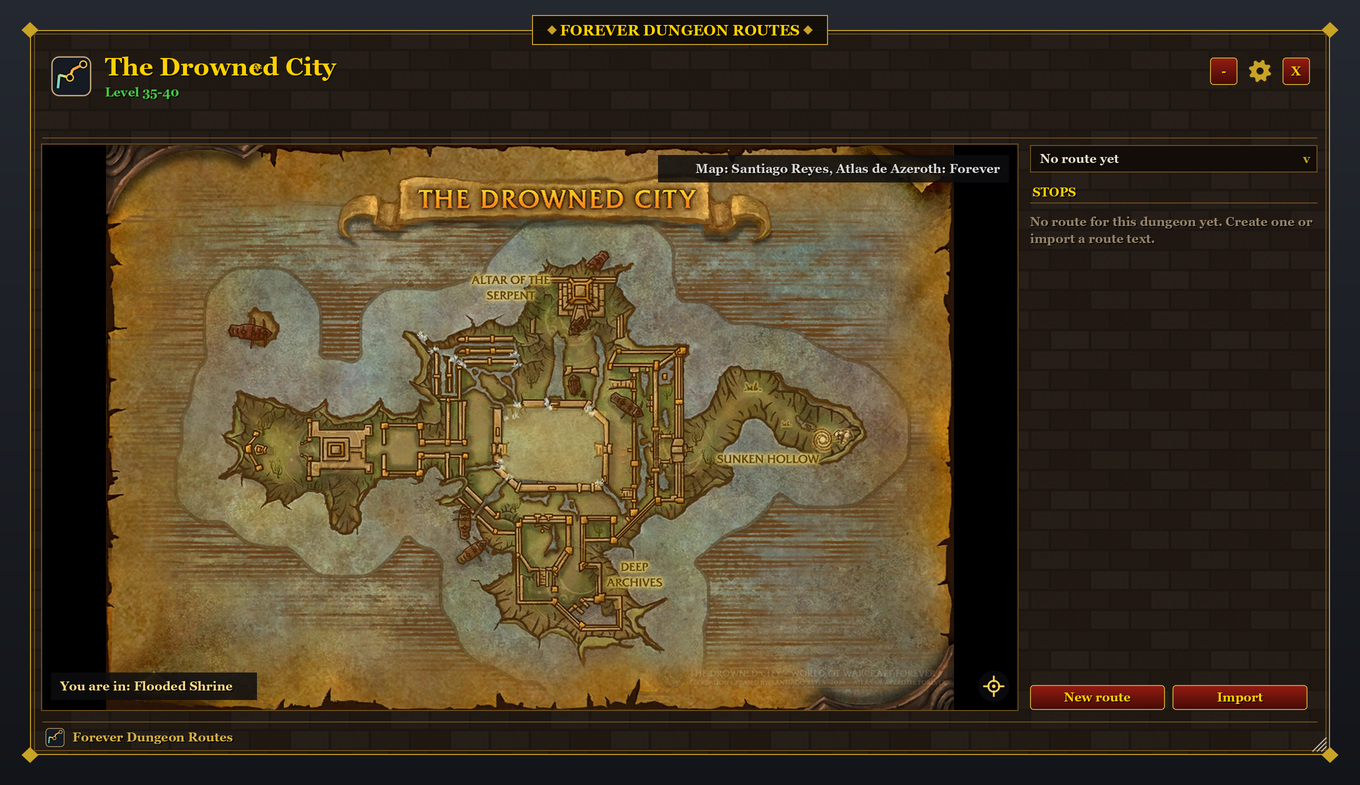
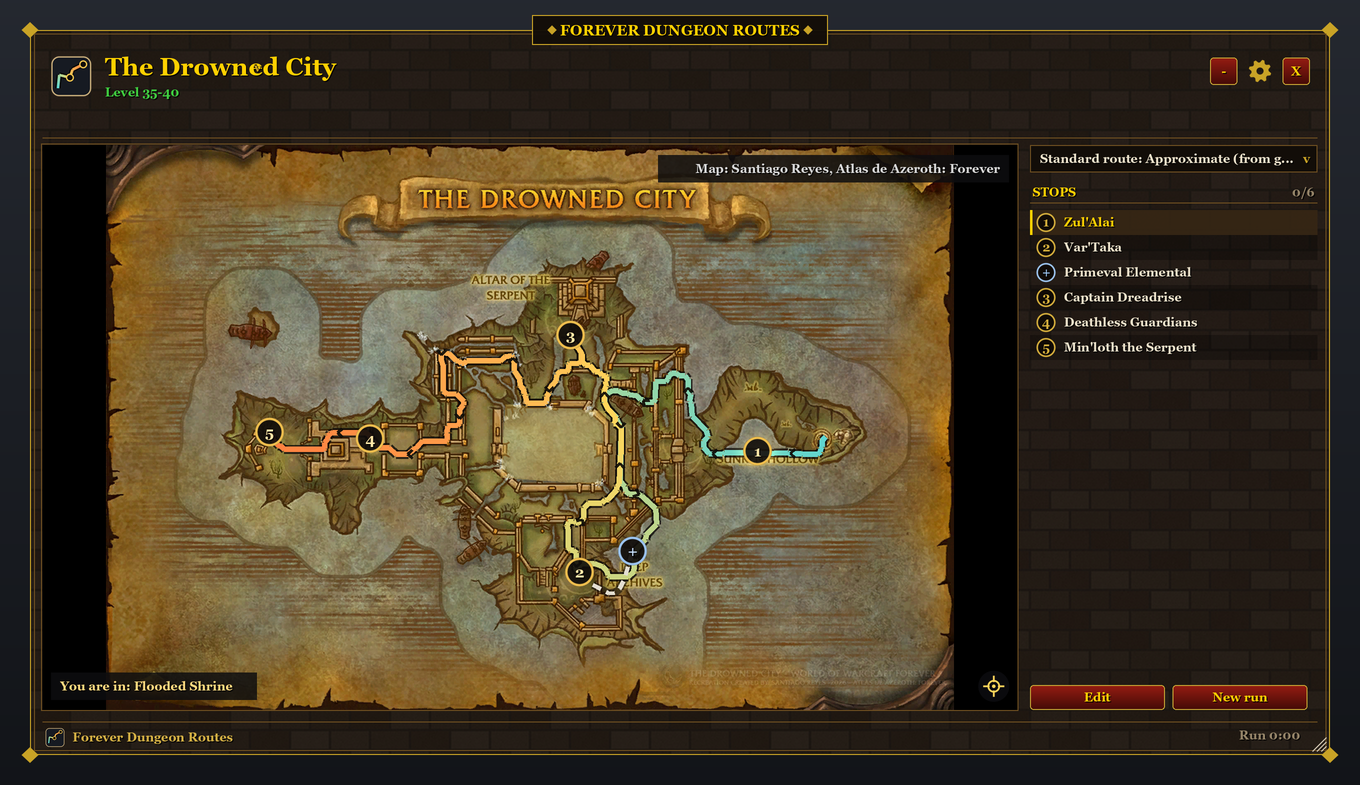
1.0.7: rough route for The Drowned City, Fel Ancient at his sound source

diff --git a/README.md b/README.md
@@ -2,8 +2,8 @@
 
 A dungeon map with routes for **World of Warcraft: Forever**, for all 34 dungeons and the 7 raids:
 ready routes for the 25 classic dungeons and the 7 raids, maps by Santiago Reyes and rough routes for the first 4
-new Forever dungeons, maps by Santiago Reyes or drawn from the game's files for the 5 newer ones,
-boss order and notes, bosses that tick themselves off, an editor for your own routes in the spirit of
+new Forever dungeons, maps by Santiago Reyes or drawn from the game's files for the 5 newer ones (The
+Drowned City with a rough route too), boss order and notes, bosses that tick themselves off, an editor for your own routes in the spirit of
 Mythic Dungeon Tools, and a route list where players put up their routes for everyone.
 
 ![Inside the Deadmines: the first boss ticked off by the kill, the room you are in lights up, the run time counts](docs/screenshots/dungeon.png)
@@ -19,8 +19,8 @@ Mythic Dungeon Tools, and a route list where players put up their routes for eve
 | ![Ruins of Lordaeron on the map by Santiago Reyes (Atlas de Azeroth: Forever) with the rough route Approximate (from guides), King's Alley lit up](docs/screenshots/new-lordaeron.png) | ![The Hall of Thanes on the map by Santiago Reyes (Atlas de Azeroth: Forever) with the rough route, Infurnus on the side path](docs/screenshots/new-thanes.png) |
 | **City of Dalaran: the rough route over two levels, three bosses down** | **The small map when you enter a dungeon** |
 | ![City of Dalaran on the map by Santiago Reyes with the rough route, Atrexis, Arcane Anomaly and Mana Devourer ticked off, Arcanic Enigma as an optional stop](docs/screenshots/new-dalaran.png) | ![The small map in the Deadmines, slightly transparent at the edge of the screen, with + and X](docs/screenshots/small-map.png) |
-| **New in 1.0.4: The Drowned City, map by Santiago Reyes** | **Alcaz Prison, map by Santiago Reyes** |
-| ![The Drowned City on the map by Santiago Reyes (Atlas de Azeroth: Forever), the Flooded Shrine lit up where the game reports it, no route yet](docs/screenshots/new-drownedcity.png) | ![Alcaz Prison on the map by Santiago Reyes (Atlas de Azeroth: Forever), no route yet](docs/screenshots/new-alcazprison.png) |
+| **The Drowned City: map by Santiago Reyes, rough route since 1.0.7** | **Alcaz Prison, map by Santiago Reyes** |
+| ![The Drowned City on the map by Santiago Reyes (Atlas de Azeroth: Forever) with the rough route Approximate (from guides), the optional Primeval Elemental as a plus](docs/screenshots/new-drownedcity.png) | ![Alcaz Prison on the map by Santiago Reyes (Atlas de Azeroth: Forever), no route yet](docs/screenshots/new-alcazprison.png) |
 | **Or from the game's own minimap pictures (gear button)** | **The Hall of Thanes from the minimap pictures** |
 | ![Ruins of Lordaeron from the game's minimap pictures, King's Alley lit up](docs/screenshots/new-lordaeron-minimap.png) | ![The Hall of Thanes from the game's minimap pictures, Anvilmar's Rest lit up](docs/screenshots/new-thanes-minimap.png) |
 | **The other window styles (gear button): Dark** | **Parchment** |
@@ -56,8 +56,9 @@ replace them.
   of Santiago Reyes (Alcaz Prison with both of its levels), for Blackmaw Hold the addon draws the map
   from the game's files. Their bosses tick themselves off and their rooms light up where the game names
   them.
-  No standard routes yet; draw your own or use "Route from the last run", and please tell us where
-  the bosses stand (see "Help wanted" below).
+  The Drowned City has a rough route since 1.0.7 (the area of each boss from a video guide); for the
+  other four no standard routes yet: draw your own or use "Route from the last run", and please tell
+  us where the bosses stand (see "Help wanted" below).
 - All seven raids (Molten Core to Naxxramas): the game's map art, rooms and areas, bosses that tick
   themselves off, and standard routes from the entrance from boss to boss over the walkable floors;
   Zul'Gurub and Ahn'Qiraj with two each ("Full clear" and "Efficient"). In the dungeon list they sit
@@ -193,12 +194,12 @@ Razorfen Downs, Uldaman, Zul'Farrak, Maraudon, Sunken Temple, Blackrock Depths,
 Lower and Upper Blackrock Spire, Dire Maul (East, West, North), Scholomance, Stratholme.
 
 With a rough route from guide texts ("Approximate (from guides)", places approximate): The Hall of
-Thanes, Ruins of Lordaeron, Excavation Site: Wetlands, City of Dalaran.
+Thanes, Ruins of Lordaeron, Excavation Site: Wetlands, City of Dalaran, The Drowned City.
 
-Without a standard route yet (map, rooms and bosses are there): The Drowned City, Krol'dok Stronghold,
-Alcaz Prison, Blackmaw Hold, The Shaper's Terrace.
+Without a standard route yet (map, rooms and bosses are there): Krol'dok Stronghold, Alcaz Prison,
+Blackmaw Hold, The Shaper's Terrace.
 
-**Help wanted:** we found no guide yet that places the bosses of these five dungeons. If you ran one
+**Help wanted:** we found no guide yet that places the bosses of these four dungeons. If you ran one
 of them, tell us where each boss stood: its name and the area name the game shows above the minimap
 there; a few words about the spot help too. Post it as an [issue](https://github.com/Checkov23/ForeverDungeonRoutes/issues) or as a comment on
 [CurseForge](https://www.curseforge.com/wow/addons/forever-dungeon-routes). From that we make the standard routes.
@@ -262,6 +263,7 @@ guides ([The Hall of Thanes](https://www.icy-veins.com/wow-forever/hall-of-thane
 texts say about the places was used, no map or route from them. Highland Horror and Lyn the Ignored
 are placed after warcraft.wiki.gg ([Highland Horror](https://warcraft.wiki.gg/wiki/Highland_Horror),
 [Lyn the Ignored](https://warcraft.wiki.gg/wiki/Lyn_the_Ignored)).
+The rough route of The Drowned City takes the area of each boss from the video guide by Uncas ([YouTube](https://www.youtube.com/watch?v=rJU4PkcrRuk)): the area name the game shows above the minimap during each fight. The way to the hidden room of the Primeval Elemental comes from the written guides of [Wowhead](https://www.wowhead.com/forever/guide/the-drowned-city-dungeon-overview-location-rewards) and [Mobalytics](https://mobalytics.gg/wow-forever/profile/fierce-sun-30v6cf/dungeons/drowned-city-complete-dungeon-guide); no map or route from them.
 
 ## License
 

diff --git a/CHANGELOG.md b/CHANGELOG.md
@@ -1,5 +1,14 @@
 # Changelog
 
+## 1.0.7
+
+- The Drowned City has a rough standard route, "Approximate (from guides)": Zul'Alai in the Sunken Hollow, Var'Taka in
+  the Deep Archives, Captain Dreadrise at the Altar of the Serpent, Deathless Marrow in the Eternal Amphitheater and
+  Min'loth the Serpent at the Abyssal Dais, the optional Primeval Elemental under water in Ataal'Byzal. The area of
+  each boss comes from a video guide (the area name the game shows above the minimap during the fight), the way to
+  the hidden room from written guides; the spots within the areas are approximate.
+- City of Dalaran: the Fel Ancient now stands where the game files place a sound at him.
+
 ## 1.0.6
 
 - Alcaz Prison has a second map level, Maximum Security, from the second map of the prison by Santiago Reyes
